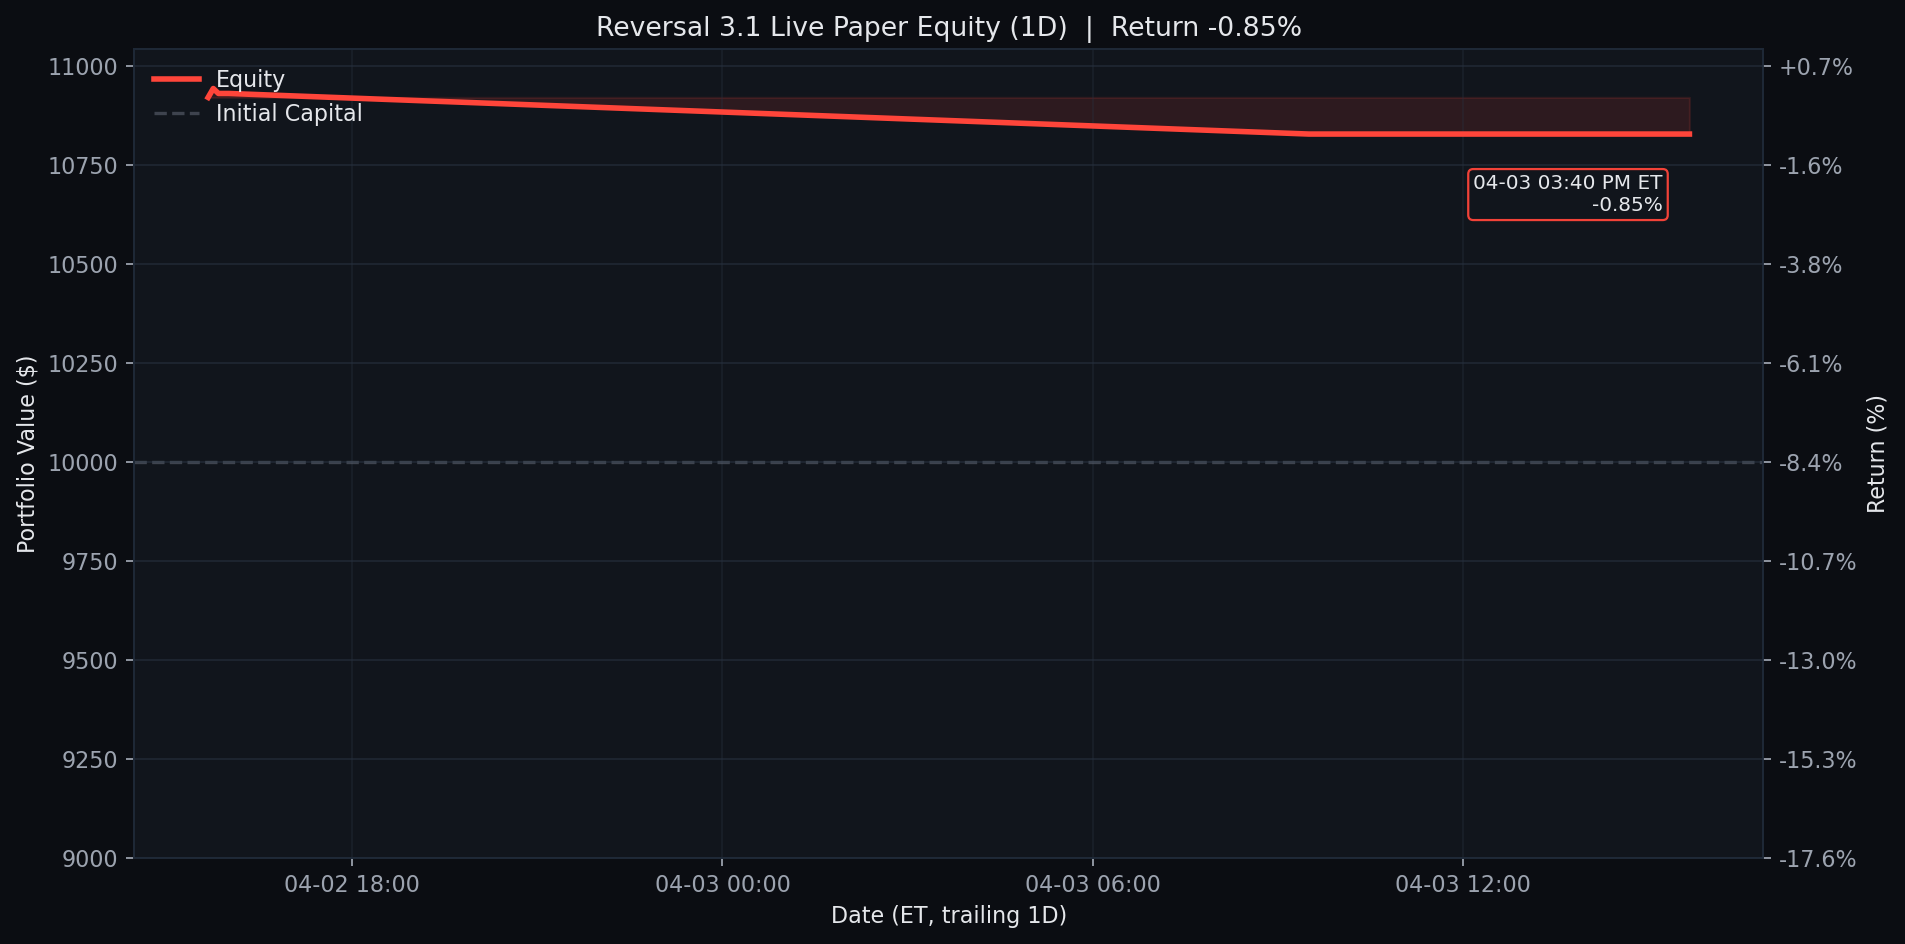
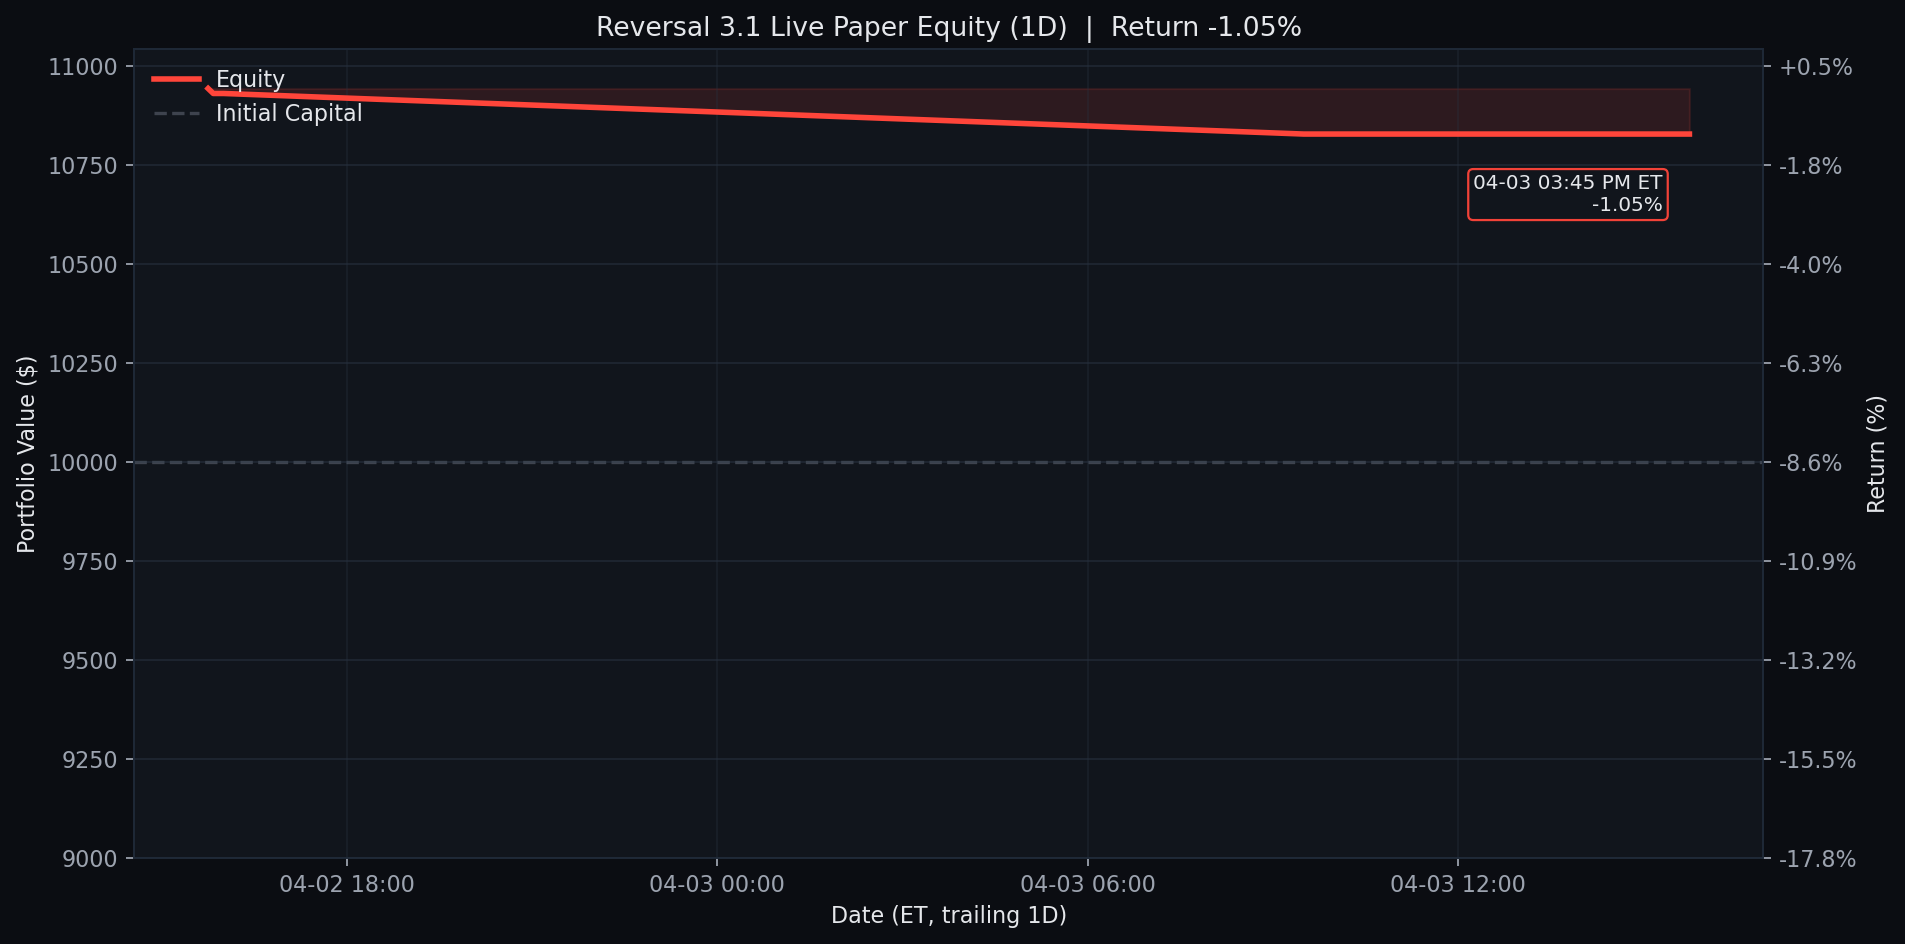
Update Reversal 3.1 live paper test 2026-04-03 15:45 ET

diff --git a/README.md b/README.md
@@ -3,10 +3,10 @@
 <!-- reversal-3.1-live:start -->
 ## Reversal 3.1 Live Paper Test
 
-- Last updated (ET): `2026-04-03 15:40:03 EDT`
+- Last updated (ET): `2026-04-03 15:45:03 EDT`
 - Equity: `$10,827.50` | Realized: `$845.00` | Unrealized: `$-17.50` | Open positions: `2`
 - Today closed trades: `0`
-- Current slot: `manage_1530`
+- Current slot: `manual_refresh`
 - Universe: `qqq_plus_leverage_etfs`
 - Chart windows: `1D / 1W / 1M` (default open panel: `1W`)
 

diff --git a/results/reversal_3_1_live/README.md b/results/reversal_3_1_live/README.md
@@ -1,7 +1,7 @@
 # Reversal 3.1 Live Paper Test
 
-Last updated (ET): `2026-04-03 15:40:03 EDT`
-Last processed slot: `manage_1530`
+Last updated (ET): `2026-04-03 15:45:03 EDT`
+Last processed slot: `manual_refresh`
 
 ## Active Configuration
 
